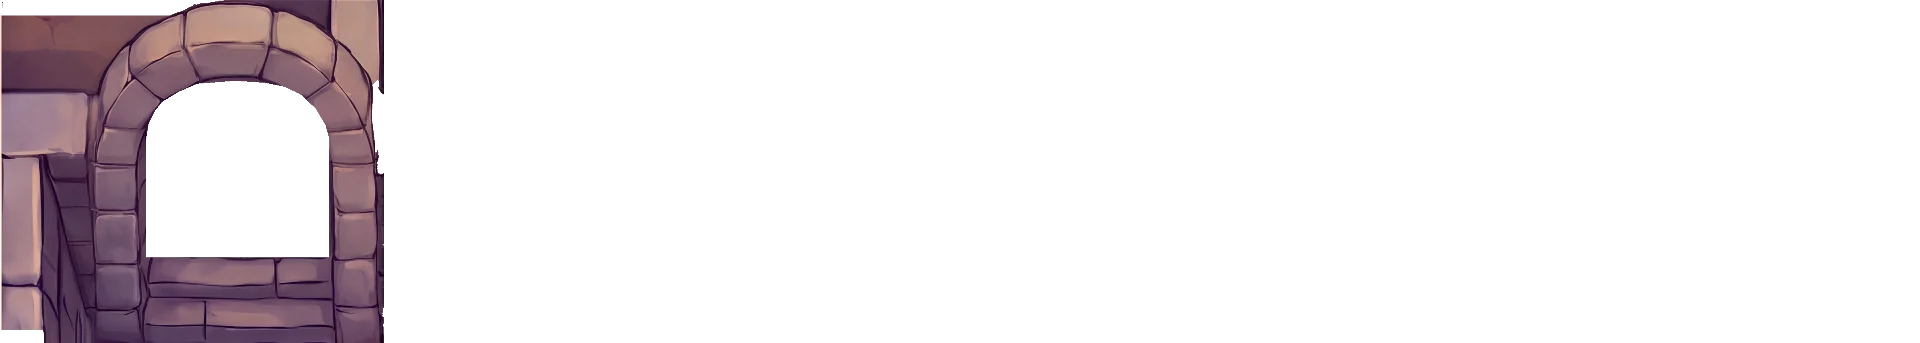
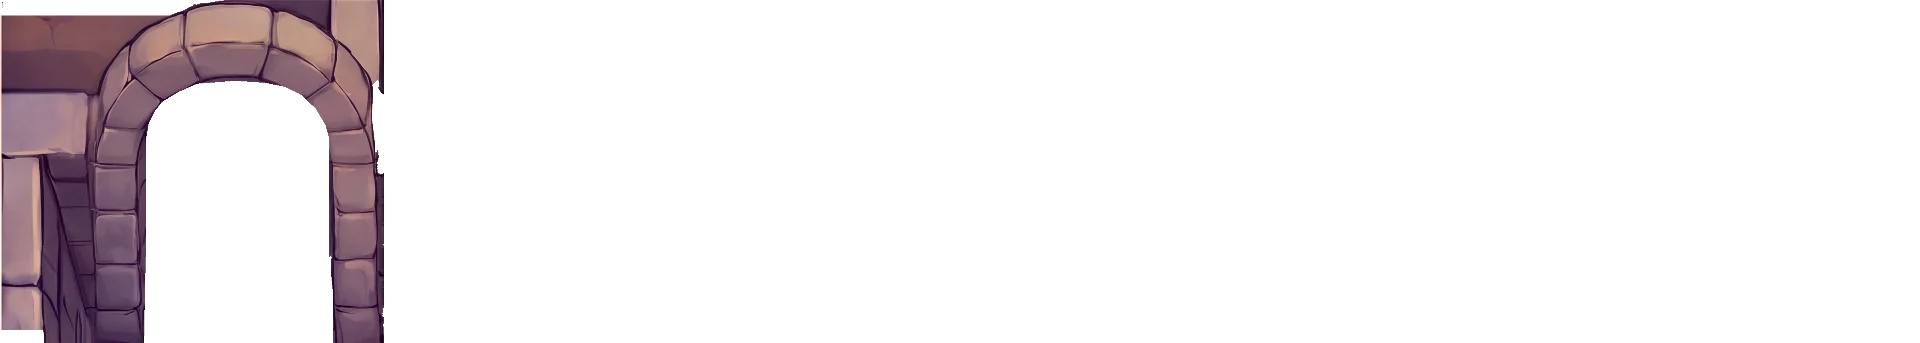
Leave the steps under the passage's arch to the floor
The owner, of 59.10: the arch's cover held the steps under its opening,
and the steps are floor, always behind a figure; the cover is the arch
(D307).

The cover of row 12, `arch_wall`, is the arch's stones alone: its hole is
the opening and, under it, the two steps down to the corridor's floor,
between the jambs' inner lines traced on the painting (x 1.53 to 1.51 on
the left, 3.42 to 3.46 on the right, from the opening's foot at 12.1 to
below the cover's bottom). The jambs keep their stones down to the
floor. A figure coming down the last stairs is drawn over the steps: its
feet on the top step on (2, 11), and nothing of it cut on its way to
(2, 12), where it stands on the lower step. The lowerings stay.

The steps were the passage's one walked cell with something painted on
it, an exception in test_art_content.py; with them out of the cover,
the exception goes.

Checked: the export and its sweep pass (2 of 60 walked cells with
something in front, as before); a burst of frames of Rinlo from (2, 8)
to (2, 12) (in the report). ci/check.sh, sweeps.spec.ts, painted.spec.ts
and story.spec.ts green in a copy of the staged state.

Changed region(s): [[0.0625, 0.7289, 0.1875, 1.0]]

diff --git a/tests/project/test_art_content.py b/tests/project/test_art_content.py
@@ -61,12 +61,9 @@ def walked(scene: str) -> set[tuple[int, int]]:
     return {(x, y) for y, row in enumerate(rows) for x, char in enumerate(row) if char in walks}
 
 
-#: The walked cells something painted stands on: in the shed, by the owner's word, the
-#: barrel's cell, where a figure stands nudged to its right, in front of it (D211); in the
-#: passage, the steps under the corridor's arch, part of the arch's cover of row 12, which
-#: hides the feet of a figure coming down the last stairs and is drawn behind one standing
-#: on them (D307).
-STANDS_ON = {"the-broom-shed": {(6, 5)}, "the-tower-passage": {(2, 12)}}
+#: The walked cells something painted stands on, by the owner's word: in the shed, the
+#: barrel's cell, where a figure stands nudged to its right, in front of it (D211).
+STANDS_ON = {"the-broom-shed": {(6, 5)}}
 
 
 @pytest.mark.parametrize("scene", SCENES)
